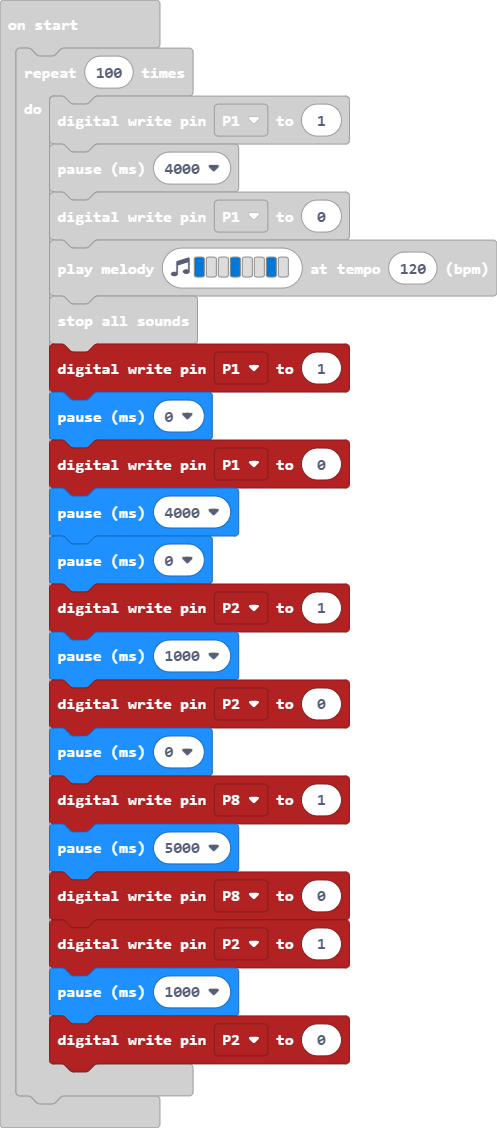
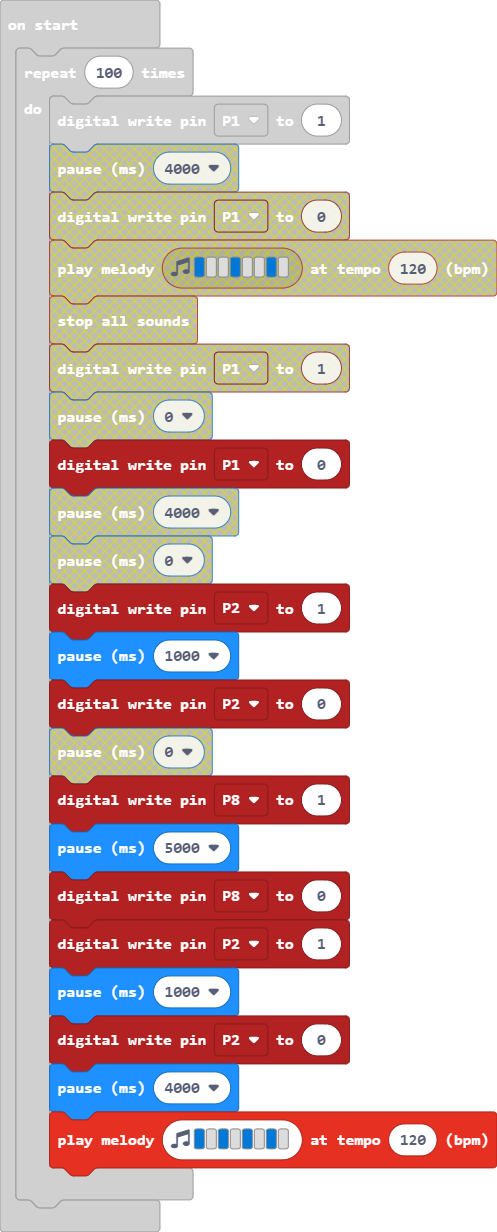
Update main.blocks, main.ts

diff --git a/main.ts b/main.ts
@@ -1,18 +1,11 @@
 for (let index = 0; index < 100; index++) {
     pins.digitalWritePin(DigitalPin.P1, 1)
     basic.pause(4000)
+    music.playMelody("E - E - E - E - ", 120)
     pins.digitalWritePin(DigitalPin.P1, 0)
-    music.playMelody("E - - E - - E - ", 120)
-    music.stopAllSounds()
-    pins.digitalWritePin(DigitalPin.P1, 1)
-    basic.pause(0)
-    pins.digitalWritePin(DigitalPin.P1, 0)
-    basic.pause(4000)
-    basic.pause(0)
     pins.digitalWritePin(DigitalPin.P2, 1)
     basic.pause(1000)
     pins.digitalWritePin(DigitalPin.P2, 0)
-    basic.pause(0)
     pins.digitalWritePin(DigitalPin.P8, 1)
     basic.pause(5000)
     pins.digitalWritePin(DigitalPin.P8, 0)
